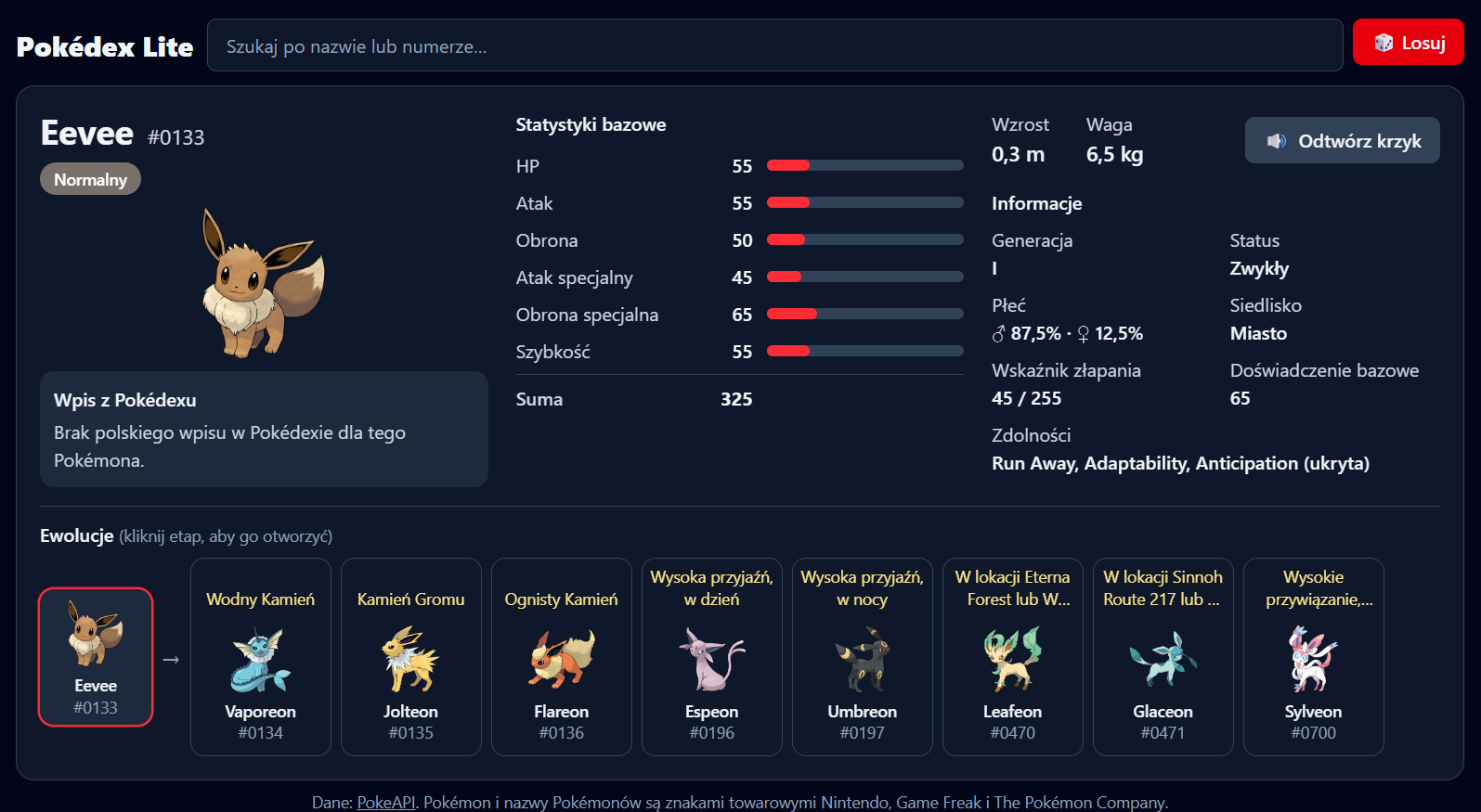
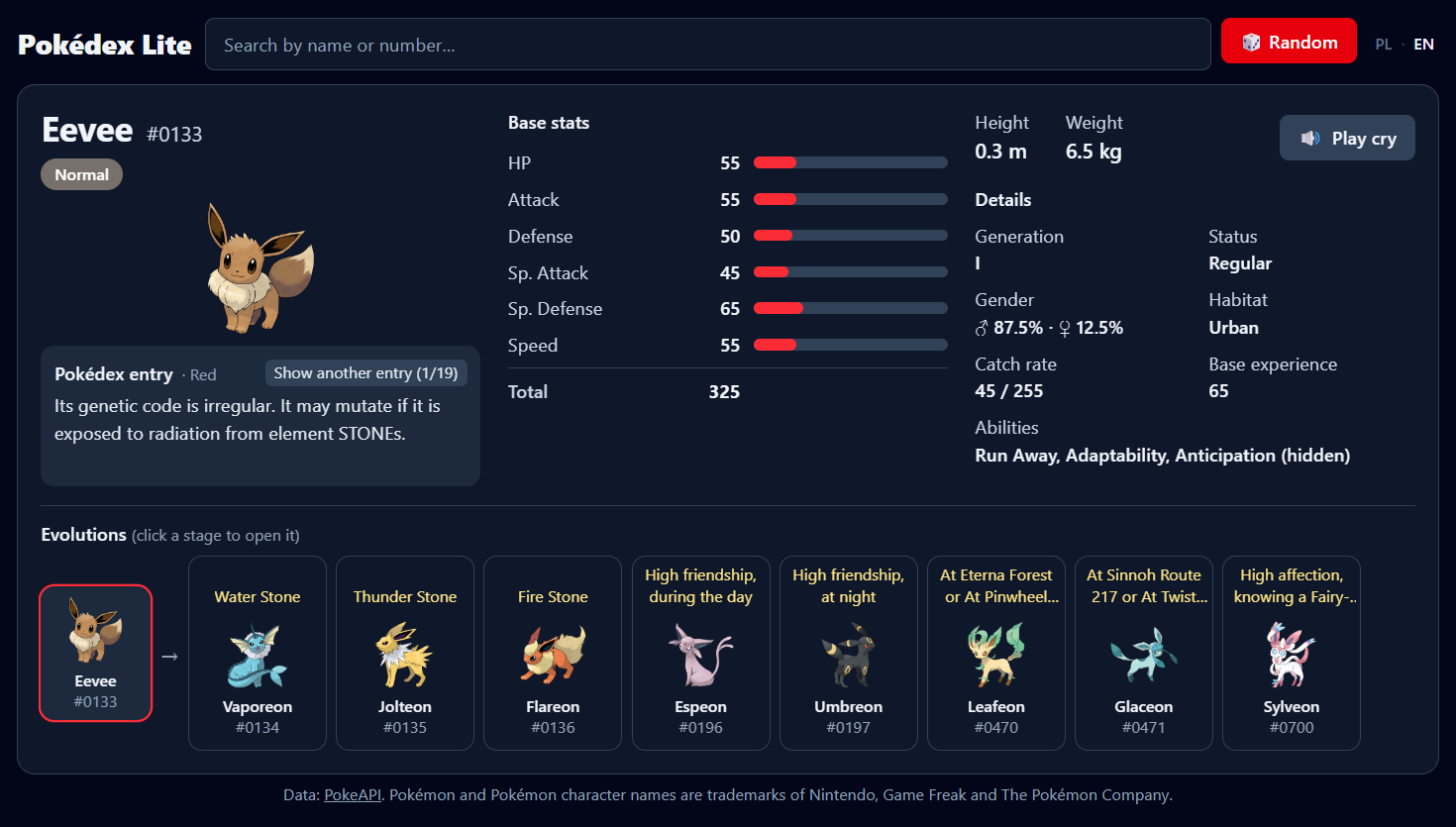
Update screenshot and minor fixes

diff --git a/src/components/card/FlavorText.jsx b/src/components/card/FlavorText.jsx
@@ -2,7 +2,10 @@ import { useMemo, useState } from 'react';
 import { useI18n } from '../../i18n/LanguageContext.jsx';
 import { cleanFlavor, formatName } from '../../lib/format.js';
 
-/** Pokédex entries in the current language (deduplicated), with switching between game versions. */
+/**
+ * Pokédex entries in the current language (deduplicated), with switching between game versions.
+ * The text area has a fixed height and scrolls, so long entries never shift the layout.
+ */
 export default function FlavorText({ species }) {
   const { t } = useI18n();
   const entries = useMemo(() => {
@@ -13,32 +16,37 @@ export default function FlavorText({ species }) {
       .filter((e) => !seen.has(e.text) && seen.add(e.text));
   }, [species, t]);
   const [index, setIndex] = useState(0);
+  const entry = entries.length ? entries[index % entries.length] : null;
 
-  if (entries.length === 0) {
-    return <p className="text-slate-300">{t.flavor.missing}</p>;
-  }
-
-  const entry = entries[index % entries.length];
   return (
-    <div>
-      <p key={`${t.code}-${index}`} className="leading-relaxed text-slate-200 motion-safe:animate-pop-in">
-        {entry.text}
-      </p>
-      <div className="mt-2 flex flex-wrap items-center gap-3 text-sm text-slate-300">
-        {entry.version && (
-          <span>
-            {t.flavor.version} {entry.version}
-          </span>
-        )}
+    <section aria-label={t.card.flavorTitle} className="rounded-xl bg-slate-800 p-3">
+      {/* single line on purpose: a wrapping header would change the box height */}
+      <div className="mb-1 flex items-center justify-between gap-3">
+        <h3 className="min-w-0 truncate font-semibold">
+          {t.card.flavorTitle}
+          {entry?.version && (
+            <span className="ml-2 text-sm font-normal text-slate-400" title={`${t.flavor.version} ${entry.version}`}>
+              · {entry.version}
+            </span>
+          )}
+        </h3>
         {entries.length > 1 && (
           <button
             onClick={() => setIndex((i) => i + 1)}
-            className="rounded-md bg-slate-700 px-2 py-1 text-slate-200 hover:bg-slate-600"
+            className="shrink-0 rounded-md bg-slate-700 px-2 py-0.5 text-sm whitespace-nowrap text-slate-200 hover:bg-slate-600 focus:outline-none focus-visible:ring-2 focus-visible:ring-red-300"
           >
             {t.flavor.next} ({(index % entries.length) + 1}/{entries.length})
           </button>
         )}
       </div>
-    </div>
+      {/* key remounts the box, so every new entry starts scrolled to the top */}
+      <div
+        key={`${t.code}-${index}`}
+        tabIndex={entry ? 0 : undefined}
+        className="h-18 overflow-y-auto rounded pr-1 leading-6 [scrollbar-color:var(--color-slate-600)_transparent] [scrollbar-width:thin] focus:outline-none focus-visible:ring-2 focus-visible:ring-red-300 motion-safe:animate-pop-in"
+      >
+        {entry ? <p className="text-slate-200">{entry.text}</p> : <p className="text-slate-300">{t.flavor.missing}</p>}
+      </div>
+    </section>
   );
 }

diff --git a/src/components/card/PokemonCard.jsx b/src/components/card/PokemonCard.jsx
@@ -48,14 +48,11 @@ export default function PokemonCard({ id, celebrate, onSelect }) {
           </header>
           <div
             key={hop ? `hop-${celebrate.n}` : 'static'}
-            className={`mx-auto my-1 h-36 w-36 ${hop ? 'motion-safe:animate-hop' : ''}`}
+            className={`mx-auto my-1 h-32 w-32 ${hop ? 'motion-safe:animate-hop' : ''}`}
           >
             <FadeImage src={pokemonImage(pokemon)} alt={t.card.artworkAlt(name)} className="h-full w-full" />
           </div>
-          <section aria-label={t.card.flavorTitle} className="rounded-xl bg-slate-800 p-3">
-            <h3 className="mb-1 font-semibold">{t.card.flavorTitle}</h3>
-            <FlavorText key={species.id} species={species} />
-          </section>
+          <FlavorText key={species.id} species={species} />
         </div>
 
         {/* Column 2: stats */}
